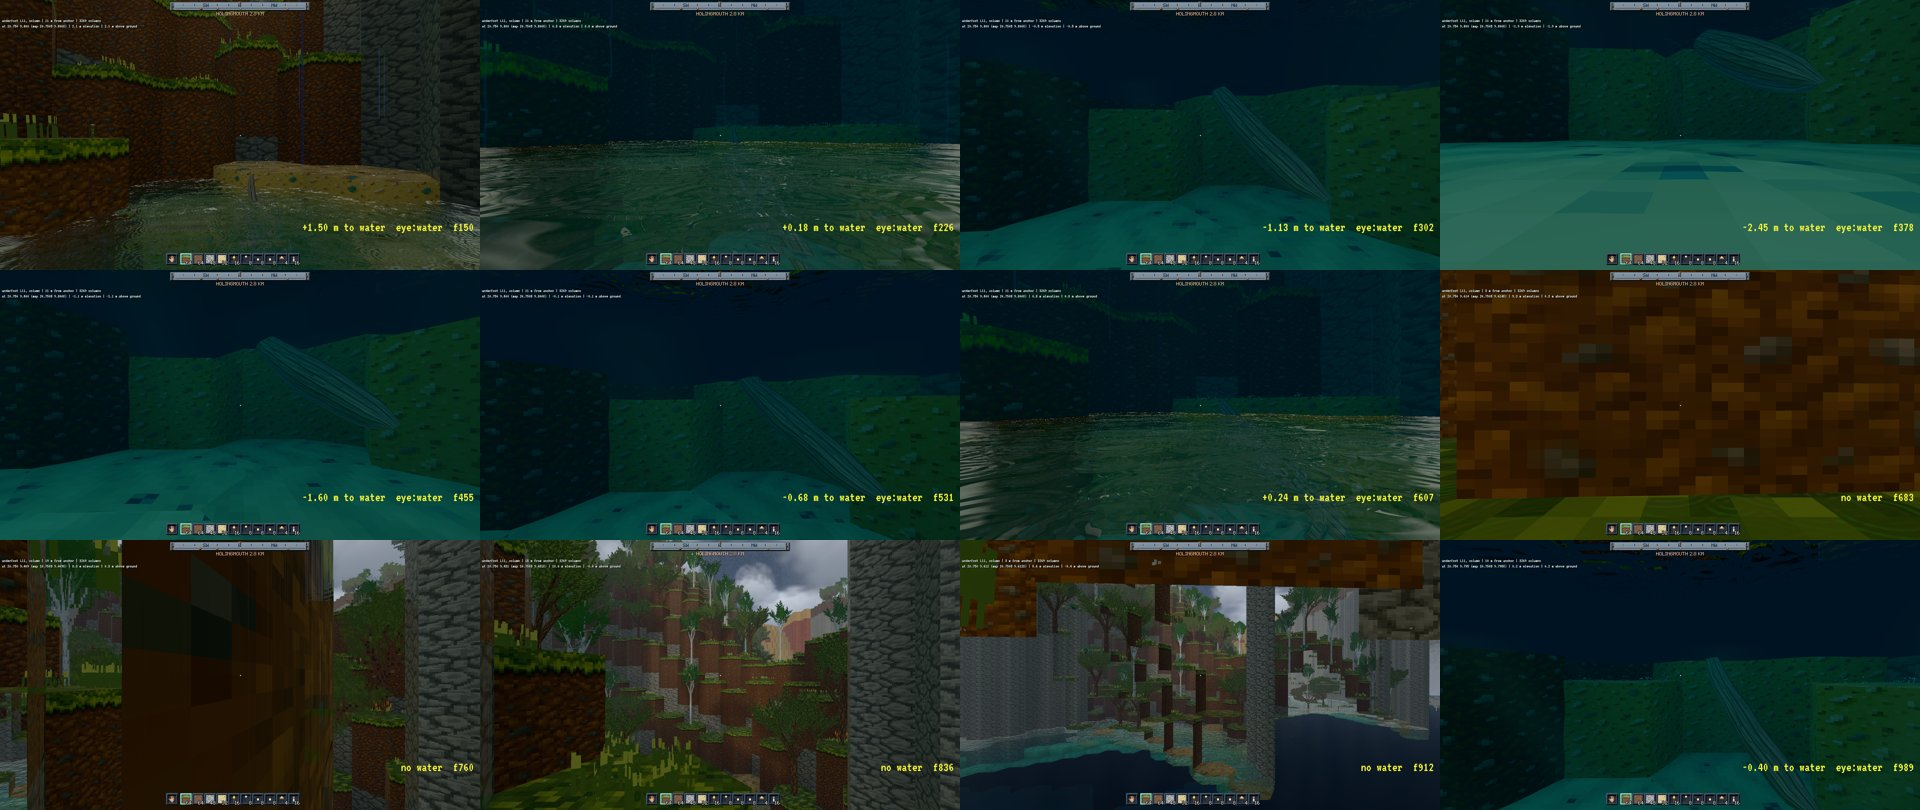
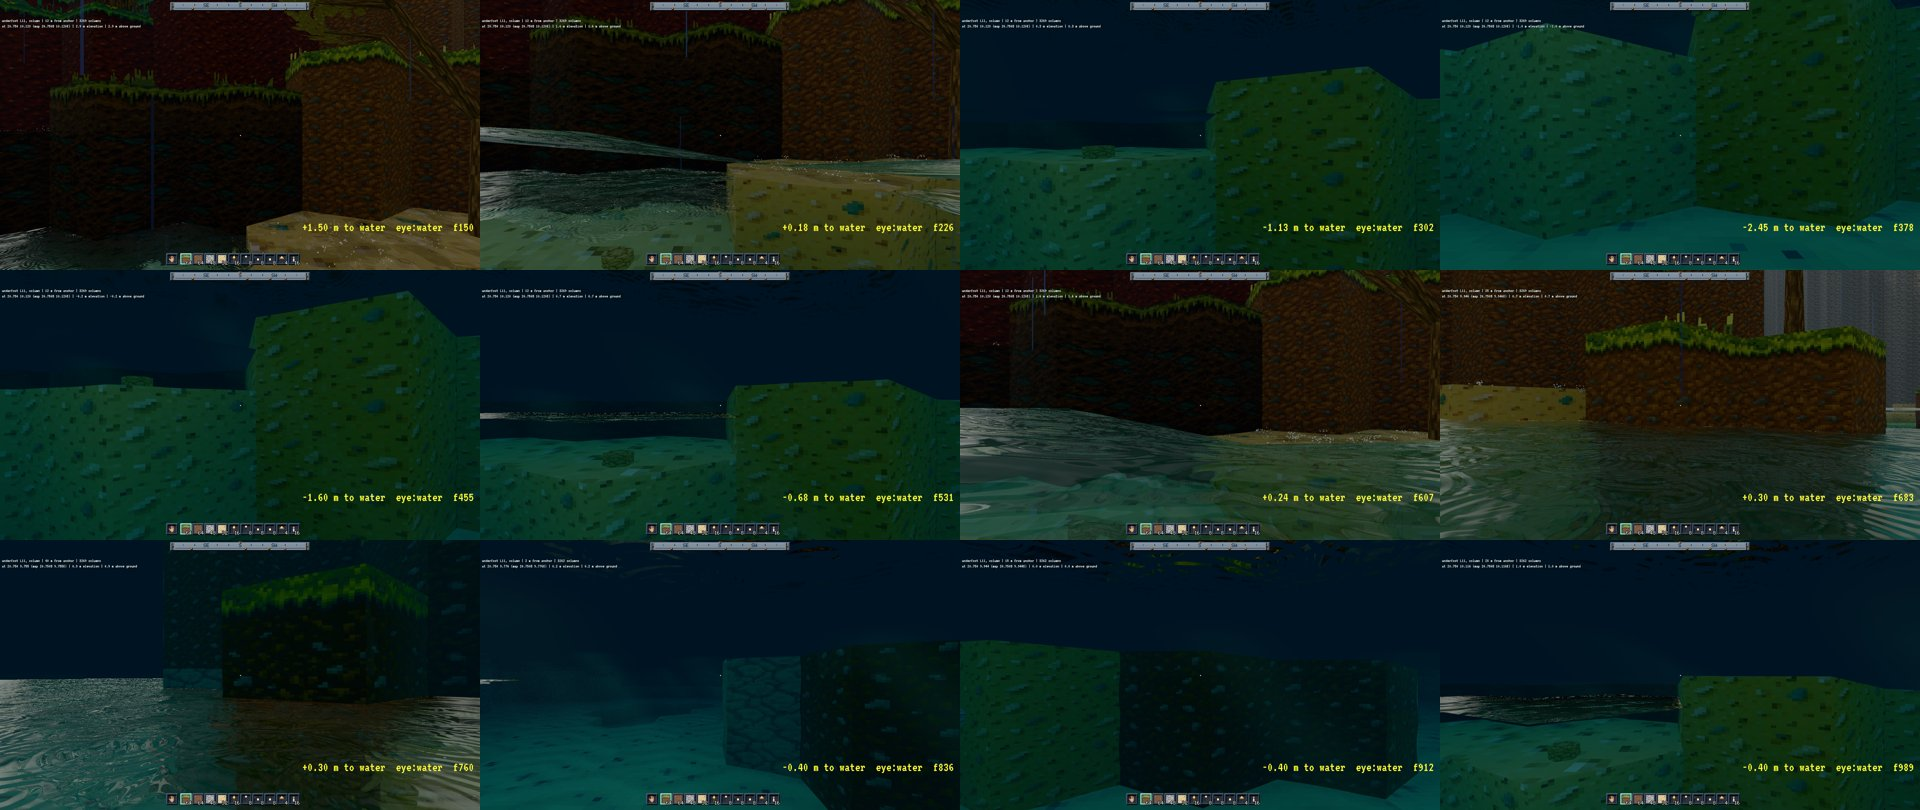
Waterline videos: README and contact sheets, before and after; the eye over the tide's water; junction check counts (ocean-environments B18)
Claude-Session: https://claude.ai/code/session_01RGPQupt5gFppY4ZgrT9RgH

diff --git a/crates/pbd-app/src/planet_water.rs b/crates/pbd-app/src/planet_water.rs
@@ -486,8 +486,9 @@ fn eye_water(
         // "submerged at just the right height": one layer down at high
         // water the column held only air, and the eye was dry under the
         // sheet).
-        None if pbd_core::column::layer_at(altitude)
-            .is_some_and(|l| column.material(l) == pbd_core::terrain::Material::Air)
+        None if altitude < terrain::terrain_config().sea_level_m + high_water
+            && pbd_core::column::layer_at(altitude)
+                .is_some_and(|l| column.material(l) == pbd_core::terrain::Material::Air)
             && column.open_to_sky(altitude)
             && column.surface().is_none_or(|top| {
                 pbd_core::column::layer_altitude(top) + 1.0
@@ -3274,7 +3275,7 @@ mod water_junction_tests {
         let tributaries: Vec<(usize, usize)> = by_distance
             .iter()
             .filter(|&&k| upstream.get(&k).is_some_and(|u| u.len() >= 2) && map.down(k).is_some())
-            .filter_map(|&k| Some((upstream[&k][1], k)))
+            .map(|&k| (upstream[&k][1], k))
             .take(3)
             .collect();
         // Falls of three layers or more: into a river's pool, into the sea.

diff --git a/docs/screenshots/river-fixes/videos/README.md b/docs/screenshots/river-fixes/videos/README.md
@@ -1,0 +1,39 @@
+# Waterline videos (ocean-environments B18)
+
+The owner, 2026-11-16: "rivers not validated", "I need to see you go above and
+below water frame by frame", "validate wherever they merge".
+
+**Where the videos are.** Each place has a before and an after video, H.264 at
+1080p60, in the owner's Drive folder
+`My Drive/dungeon-crawler-2026/pale-blue-dot-validation/`, named
+`river-waterline-<place>-<before|after>-1080p60.mp4`. This folder holds a
+12-frame contact sheet of each one, `<place>-<before|after>-sheet.jpg`.
+
+**How they were made.**
+- **Renderer:** the Mac (M4 Max, Metal), `--profile fast`.
+- **Frame rate:** a fixed 60 fps step, so the videos show looks, not frame
+  time.
+- **Window:** 960x540, scaled up to 1080p.
+- **Weather:** rain is on. The lens drops are off (`PBD_PASS_OFF=lens`).
+- **Builds:** before is `origin/claude/env-v2` at `bb16cbd`, with only the
+  capture instrument added. After is `claude/river-fixes-2`.
+- **Camera:** the camera follows `PBD_EYE_PATH` (`desktop/eye_path.rs`), a
+  capture-only instrument. The label in the bottom right shows three things:
+  - the eye's height against the water surface at the eye (the drawn top for
+    inland water, the tided sheet for the sea);
+  - the eye's water state (`eye:water` means the column has water at the eye,
+    even where it stands just over the drawn top);
+  - the capture frame.
+- **The path:** with `PBD_EYE_PATH_RELATIVE=1`, heights are taken over the
+  water under the eye. The eye starts 1.5 m over the surface, goes down to
+  2.5 m under it and comes back up. The junction videos then travel across
+  the junction 0.3 m over the surface and come back 0.4 m under it.
+
+| Place | Command (`video.py` arguments) | What it crosses |
+| --- | --- | --- |
+| `owner-spot` | `28.25 0.75`, surface 66.81 m, yaw 0 | The owner's spot in the river channel |
+| `river-bank` | `28.25 0.75`, relative, yaw 90 | The same river, looking at its bank |
+| `sea-shore` | `18.86 27.54`, relative, yaw 180 | A sea shore with a bank of sand |
+| `mouth` | `20.75 10.12` to `20.75 9.70`, relative, yaw 270 | A river mouth into the sea |
+| `tributary` | `24.00 1.00` to `23.70 1.30`, relative | Where two rivers join |
+| `fall-into-pool` | `23.70 -2.80` to `23.78 -2.72`, relative | A riffle fall into the reach below |

diff --git a/openspec/changes/ocean-environments/tasks.md b/openspec/changes/ocean-environments/tasks.md
@@ -82,3 +82,4 @@ against what it would cost.
 - [x] 13.3 (Built 2026-11-16 on `claude/sea-life-fixes`; `docs/screenshots/sea-life-fixes/`.) A startled seal dives over time and swims away; a diving duck sinks and rises, never skipped. Verify: core tests of the `under` rate and the flee goal; the `--life seal` approach sequence 30 m to 2 m.
 - [x] 13.4 (Built 2026-11-16 on `claude/sea-life-fixes`; `docs/screenshots/sea-life-fixes/`.) Ambient life fades with its tile (no 30 m cut); the sway eases out. Verify: captures; the tile-fade test.
 - [x] 13.5 (Built 2026-11-16 on `claude/sea-life-fixes`; `docs/screenshots/sea-life-fixes/`.) Schools fade in when spawned and out before they are dropped. Verify: an app test of the fade; READY with no new `LATE_PIPELINE`.
+- [ ] 12.5 (Built 2026-11-16 on `claude/river-fixes-2`, design B18. Validated by the waterline videos, before and after; `docs/screenshots/river-fixes/videos/`. Open: one riffle frame in the tributary video, listed in the README.) The river's water from inside, from the owner's spot. No straddle band, the eye measured against the drawn top, the surface overhead drawn from below, and the view under water seen through water. The sea's waterline: the eye over a tide-covered beach is in the sea, and the composite measures from the sea's tided surface. One surface at a river's mouth. Verify: `where_waters_meet_the_surfaces_join_and_the_eye_follows_them`, run on 5 mouths, 3 tributaries and 3 falls; the videos stepped frame by frame.

diff --git a/openspec/changes/ocean-environments/design.md b/openspec/changes/ocean-environments/design.md
@@ -1410,3 +1410,8 @@ was where it was applied.
 bank, the sea's shore and where waters meet, before and after, with every
 frame within 0.3 m of the surface stepped and listed (the report's issue
 list); numeric junction checks in `water_junction_tests`.
+
+**Where waters meet** (B18, the junction check). The check runs on 5 mouths, 3 tributaries and 3 falls from the generator's rivers, on a real tier. It samples every metre along a line from upstream to 40 m past the junction.
+- **Mouths: fixed.** Before the fix, every mouth drew two surfaces in 22 to 37 cells: the sea's sheet under the river's own water, wherever the bed is below sea level. The sheet is now marked dry wherever water stands over the sea's layer. All 11 lines read no double surface and no flip in the eye's decision.
+- **Steps are kept.** The steps along a line are the river's own: riffles under a metre, and falls of 4 to 11 m at the mouths' cut. They are not seams.
+- **Not built.** Lakes are not generated. Marsh pools do not join rivers. No fall drops into the sea. Poured water meeting a river and the tide against a reach have no generated instance to test on; the tide's sheet is the one the eye now follows.
